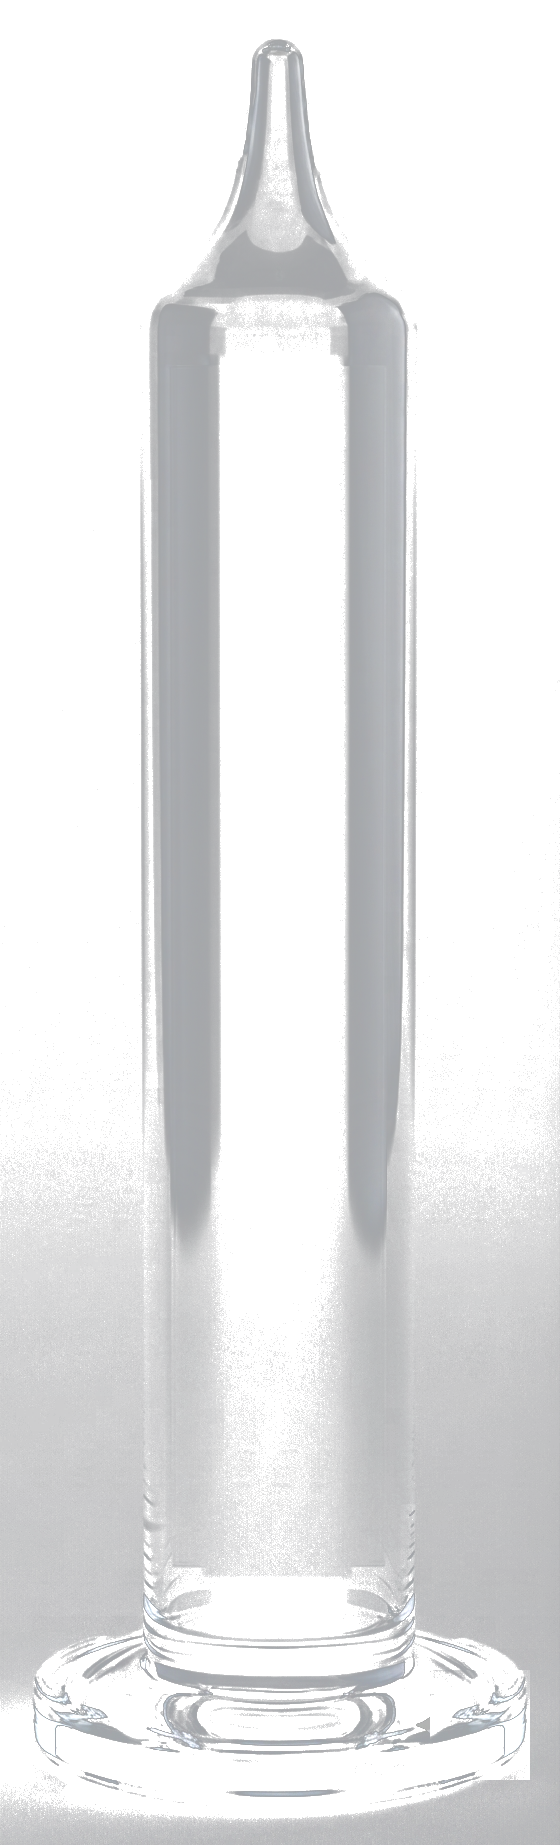
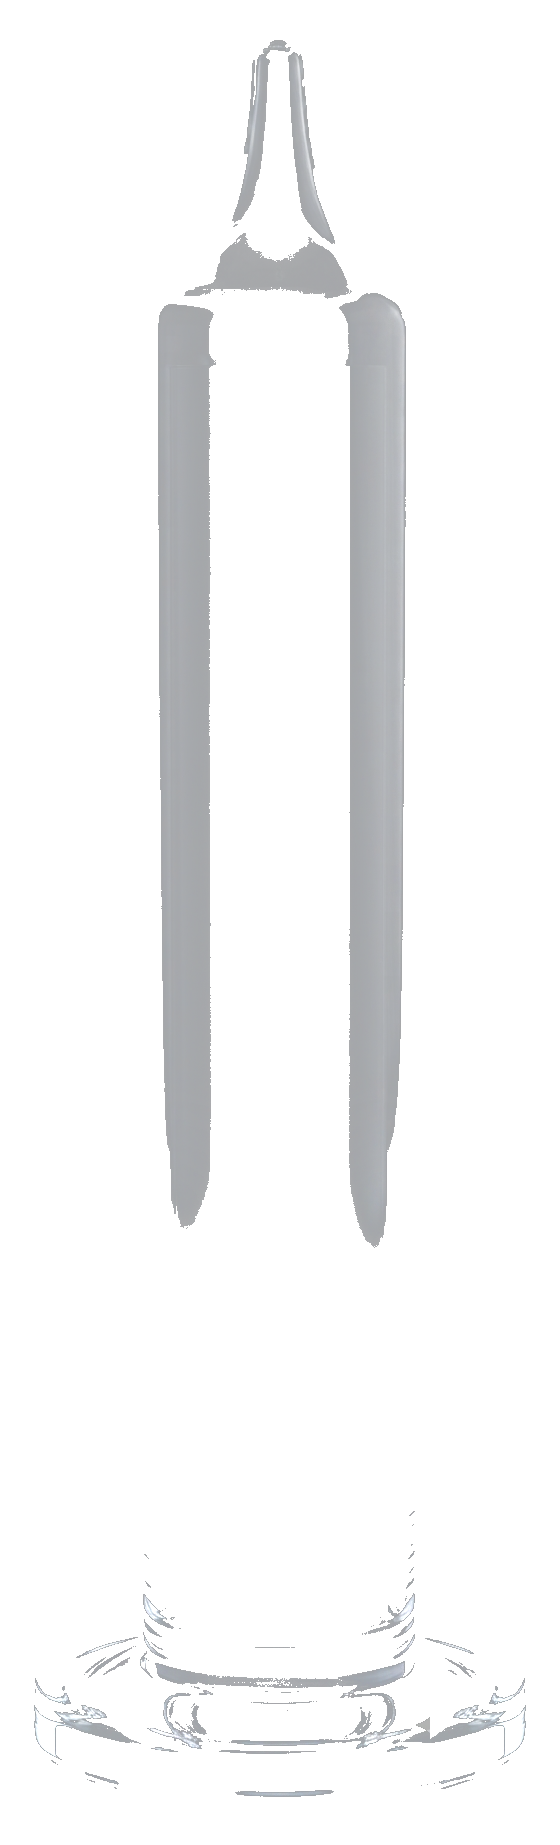
Galileo: three instruments instead of one, so it can read past its own range
A Galileo thermometer can only read inside the range its floats were made for —
past either end every float sinks, or every float rises, and there is nothing to
read. One instrument tagged 30-85F had nothing to say about a Dallas afternoon.

Three of them now stand together, each made for a different stretch: 12-51F,
54-87F, 90-111F. Between them that is 12F to 111F, at a 3F step where the single
one managed 5F — better resolution AND double the coverage, because none of them
is paying for degrees it never sees. Nothing adapts and nothing is fetched to do
it; the tags are etched numbers, the same for every visitor, which is exactly
what three instruments on a shelf would be.

The two that are out of range are deliberately not dimmed or marked. Every float
up means "colder than anything I can read", every float down means "hotter", and
the three together bracket the temperature even when only one gives a number.
Working that out is the visitor's to do.

Vessels: the owner supplied photographs of two more, a teardrop and a capsule.
Cut out against the existing convention — interior clear so the floats show
through, glass and rim semi-opaque where they catch light, which brightness maps
onto directly since the photographs are lit against black. The two flanking ones
stand smaller than the tube; at equal heights the teardrop in particular looked
enormous, being a wide shape.

vessel-dark.png also carried a faint dark wash over its whole rectangle, left
[…]

Changed region(s): [[0.0, 0.0, 1.0, 1.0], [0.6982, 0.1545, 0.7286, 0.1854]]

diff --git a/galileo/index.html b/galileo/index.html
@@ -51,16 +51,30 @@
     padding:2vh 4vw;
     gap:1.2vh;
   }
-  #instrument-wrap{
-    width:min(20vw, 190px);
-    height:min(78vh, 720px);
+  /* Three instruments stand in a row, sized by HEIGHT with width left to follow,
+     so they read as a set on a shelf rather than three things squeezed into equal
+     boxes. Each vessel is a different shape and keeps its own proportions. */
+  #instruments{
+    display:flex;
+    align-items:flex-end;
+    justify-content:center;
+    gap:min(3vw, 30px);
+    /* Sized by height, with width following from each vessel's own proportions —
+       but the three together are 1.09 times as wide as they are tall, so on a
+       narrow screen height has to be capped by the width available or the set
+       runs off the sides (the body does not scroll, so it would simply be cut
+       off rather than reachable). The 1.15 leaves a little slack over that 1.09. */
+    height:min(74vh, 690px, calc((96vw - 60px) / 0.98));
+  }
+  .instrument{
+    height:100%;
     filter:drop-shadow(0 24px 46px rgba(0,0,0,.55));
   }
+  .instrument svg{ height:100%; width:auto; overflow:visible; display:block; }
   /* the flag and its note/search live in one tight cluster so a shown note doesn't add
      a whole extra row of #stage's gap on top of its own height — keeps the bottom of the
      control stack from getting pushed past the fold on shorter screens */
   #loc-cluster{ display:flex; flex-direction:column; align-items:center; gap:2px; }
-  #instrument-wrap svg{ width:100%; height:100%; overflow:visible; }
 
   .bulb-group{ transition: transform 1.4s cubic-bezier(.34,.1,.2,1); }
   .tag-chip{
@@ -129,8 +143,14 @@
     font-family:'Cormorant Garamond', serif; min-height:1.2em;
   }
 
+  /* On a phone all three still fit across, just small — the tags were already
+     too small to read at rest there and have always been tap-to-enlarge. What
+     changes is how big that enlargement gets: see HOVER_SCALE below, which goes
+     up substantially on a narrow screen so a tapped float is properly legible
+     rather than merely bigger. */
   @media (orientation:portrait){
-    #instrument-wrap{ width:min(52vw, 230px); height:min(66vh, 560px); }
+    #stage{ padding:2vh 2vw; }
+    #instruments{ gap:8px; height:min(62vh, 540px, calc((96vw - 30px) / 0.98)); }
   }
 </style>
 </head>
@@ -141,8 +161,8 @@
 </style>
 <a id="backlink" href="../index.html">← sagne</a>
 <div id="stage">
-  <div id="instrument-wrap">
-    <svg id="vessel-svg" viewBox="595 20 220 725" preserveAspectRatio="xMidYMid meet">
+  <!-- the defs live once, off-screen; each instrument's svg refers to them by id -->
+  <svg id="defs-holder" width="0" height="0" aria-hidden="true" style="position:absolute">
       <defs>
         <linearGradient id="liquidFill" x1="0" y1="0" x2="0" y2="1">
           <stop offset="0%" stop-color="#d2d6d9"/>
@@ -163,16 +183,10 @@
           <stop offset="1" stop-color="#fff" stop-opacity="0"/>
         </linearGradient>
         <filter id="hlBlur" x="-200%" y="-40%" width="500%" height="180%"><feGaussianBlur stdDeviation="0.7"/></filter>
-        <mask id="hlMask"><rect x="649" y="500" width="13" height="138" fill="url(#hlY)"/></mask>
+        <mask id="hlMask"><rect x="54" y="480" width="13" height="138" fill="url(#hlY)"/></mask>
       </defs>
-      <g id="bulb-layer"></g>
-      <g id="tag-layer"></g>
-      <image href="vessel-dark.png" x="595" y="20" width="220" height="725" style="pointer-events:none;"/>
-      <rect x="649" y="500" width="13" height="138" fill="url(#hlX)" mask="url(#hlMask)" filter="url(#hlBlur)" style="pointer-events:none;"/>
-      <g id="hit-layer"></g>
-      <g id="hover-layer"></g>
-    </svg>
-  </div>
+  </svg>
+  <div id="instruments"></div>
 
   <div id="unit-toggle">
     <button id="btn-c" aria-label="Celsius">C</button>
@@ -193,26 +207,56 @@
 (function(){
   "use strict";
 
-  // twelve bulbs at a clean 5°F step (was nine at 7.5°) — finer resolution,
-  // same 30-85°F spread the thermometer has always covered
-  const BULBS_F = [30, 35, 40, 45, 50, 55, 60, 65, 70, 75, 80, 85];
+  // ---- the three instruments ----
+  // A Galileo thermometer can only read inside the range its floats were made
+  // for: outside it every float sinks, or every float rises. One instrument
+  // tagged 30-85F had nothing whatever to say about a Dallas afternoon. Three of
+  // them, each made for a different stretch, cover 12F to 111F between them — and
+  // at a FINER step than the single one managed, 3F against 5F, because none of
+  // them is paying for degrees it never sees.
+  //
+  // Nothing here adapts and nothing is fetched. The tags are etched numbers, the
+  // same for every visitor, exactly as on the real objects; three instruments is
+  // simply what you would own if you wanted to read that much range.
+  //
+  // The two that are off-scale are not decoration, and they are deliberately not
+  // dimmed or hidden. Every float up means "colder than anything I can read";
+  // every float down means "hotter". Read together the three bracket the
+  // temperature even when only one of them is giving a number.
+  const STEP_F = 3;
+
+  // Interior geometry, measured off each cut-out. halfWidth is the room a float
+  // has either side of centre, sampled down the column — the teardrop is 105
+  // units across its belly and closes to 74 at the neck, so a float riding high
+  // in it genuinely has less room to drift than one sitting in the middle.
+  // (The last sample or two on the capsule were smoothed: the thick glass of the
+  // base confuses the trace where it meets the foot.)
+  const INSTRUMENTS = [
+    { key:'capsule', file:'vessel-capsule.png', vw:202, vh:612,
+      cx:101.4, top:75, bot:584, from:12, count:14, scale:0.80,
+      halfWidth:[37.2,52.8,60.4,62.8,68,69.6,70,70.4,72.8,70,67.2,66,66.8,69.6,69.6,72.8,72.4,72.8,72.4,72.4,72,72,72,72,71.2,58,39.6,47.2] },
+    { key:'tube', file:'vessel-dark.png', vw:220, vh:725,
+      cx:109, top:143, bot:612, from:54, count:12, scale:1.00,
+      // straight-sided, so one figure serves the whole column. Traced at a lower
+      // threshold than the others: this photograph's walls are much fainter.
+      halfWidth:[48,48,48,48,48,48,48,48,48,48,48,48,48,48,48,48,48,48,48,48,48,48,48,48,48,48,48,48],
+      highlight:{ x:54, y:480, w:13, h:138 } },
+    { key:'teardrop', file:'vessel-teardrop.png', vw:283, vh:615,
+      cx:139.7, top:89, bot:586, from:90, count:8, scale:0.72,
+      halfWidth:[22.4,25.6,28.4,32,36,41.6,47.6,54.4,65.6,72,78,83.6,88.4,93.2,97.6,100.8,103.2,104.8,105.2,104.8,102.8,98.4,92.4,83.6,70.4,48.8,42,52.4] },
+  ];
+
   const FLOAT_IMAGES = ['blue','aqua','green','yellow','gold','orange','red','pink','palepink','purple','lavender','silver'];
-  const X_JITTER = [-22, 18, -10, 24, -19, -27, 11, -16, 21, 26, -13, -5];
+  // a float reads the same size on screen in every vessel, so its size in a
+  // vessel's own units scales with how many units tall that vessel is
+  const FLOAT_W_AT_725 = 48;
+  const FLOAT_RATIO = 660/370;
+  const TAG_FONT_FRAC = 0.16;
 
-  // display size for each float sprite (native crop is 340x435)
-  // sized so a bulb reads as roughly a real pea against the tube (tube interior ~130 units wide)
-  const FLOAT_W = 48;
-  const FLOAT_H = FLOAT_W * (660/370);
-  const TAG_FONT_SIZE = FLOAT_W * 0.16;
-  const TAG_TEXT_X = 1;
-  // coin's true visual center measured at its widest row (y=95 of 107px sprite),
-  // plus a baseline correction since SVG text y= is the baseline, not the glyph's visual middle
-  const TAG_TEXT_Y = FLOAT_H/2 - FLOAT_H*0.08;
-
-  // tube interior bounds measured from the traced vessel (native SVG coords)
-  const TUBE_CX = 703;
-  const TUBE_Y_TOP = 163;
-  const TUBE_Y_BOTTOM = 632;
+  // How far a float sits from centre. Fixed per position so it never jitters
+  // frame to frame, spread so neighbours lean opposite ways, and scaled at draw
+  // time by whatever room the glass actually has at that height.
+  function leanFor(i){ return Math.sin(i*2.399 + 0.7) * 0.78; }
 
   let unit = 'f';
   let currentTempF = 65;
@@ -220,52 +264,110 @@
   let weatherFetchFailures = 0; // consecutive failed weather fetches (location already known) --
   // separate from a geolocation failure, which has its own note text and its own counter-less path
 
-  const bulbLayer = document.getElementById('bulb-layer');
-  const tagLayer = document.getElementById('tag-layer');
-  const hitLayer = document.getElementById('hit-layer');
-  const hoverLayer = document.getElementById('hover-layer');
+  const instrumentsWrap = document.getElementById('instruments');
   const btnC = document.getElementById('btn-c');
   const btnF = document.getElementById('btn-f');
 
-  const HOVER_SCALE = 2.4;
+  // A tapped float is shown enlarged. On a phone all three instruments are small,
+  // so the tags are unreadable at rest — they always were — and this enlargement
+  // is how you read one. It therefore has to be much bigger on a narrow screen,
+  // not the same 2.4x that suits a desktop.
+  function hoverScale(){ return window.matchMedia('(orientation:portrait)').matches ? 5.2 : 2.6; }
 
   function fToC(f){ return (f-32)*5/9; }
 
-  const bulbEls = BULBS_F.map((t,i)=>{
-    const g = document.createElementNS('http://www.w3.org/2000/svg','g');
-    g.setAttribute('class','bulb-group');
-    g.innerHTML = `<image href="floats/${FLOAT_IMAGES[i]}.png" x="${-FLOAT_W/2}" y="${-FLOAT_H/2}" width="${FLOAT_W}" height="${FLOAT_H}"/>`;
-    bulbLayer.appendChild(g);
+  const SVGNS = 'http://www.w3.org/2000/svg';
+  const bulbEls = [];
 
-    const tg = document.createElementNS('http://www.w3.org/2000/svg','g');
-    tg.setAttribute('class','tag-group');
-    tg.innerHTML = `<text x="${TAG_TEXT_X}" y="${TAG_TEXT_Y}" text-anchor="middle" font-size="${TAG_FONT_SIZE}" class="tag-chip" fill="#000000">${Math.round(t)}°</text>`;
-    tagLayer.appendChild(tg);
+  INSTRUMENTS.forEach((inst, instIdx) => {
+    const box = document.createElement('div');
+    box.className = 'instrument';
+    // The three are not the same size. Standing them at equal heights made the
+    // teardrop in particular look wrong — it is a wide shape, so matching the
+    // tube's height made it enormous beside it. A smaller instrument either side
+    // reads as what it is: a main one with two lesser ones kept for the ranges it
+    // cannot reach. They share a baseline, as things standing on a shelf do.
+    box.style.height = (inst.scale*100) + '%';
+    const svg = document.createElementNS(SVGNS,'svg');
+    svg.setAttribute('viewBox', `0 0 ${inst.vw} ${inst.vh}`);
+    svg.setAttribute('preserveAspectRatio','xMidYMax meet');
+    const bulbLayer = document.createElementNS(SVGNS,'g');
+    const tagLayer  = document.createElementNS(SVGNS,'g');
+    svg.appendChild(bulbLayer); svg.appendChild(tagLayer);
 
-    // zoomed-in clone shown on hover, rendered above the glass so it's never clipped
-    const hg = document.createElementNS('http://www.w3.org/2000/svg','g');
-    hg.setAttribute('class','hover-clone');
-    hg.innerHTML = `
-      <image href="floats/${FLOAT_IMAGES[i]}.png" x="${-FLOAT_W/2*HOVER_SCALE}" y="${-FLOAT_H/2*HOVER_SCALE}" width="${FLOAT_W*HOVER_SCALE}" height="${FLOAT_H*HOVER_SCALE}"/>
-      <text x="${TAG_TEXT_X*HOVER_SCALE}" y="${TAG_TEXT_Y*HOVER_SCALE}" text-anchor="middle" font-size="${TAG_FONT_SIZE*HOVER_SCALE}" class="tag-chip" fill="#000000">${Math.round(t)}°</text>
-    `;
-    hoverLayer.appendChild(hg);
+    const vessel = document.createElementNS(SVGNS,'image');
+    vessel.setAttribute('href', inst.file);
+    vessel.setAttribute('x',0); vessel.setAttribute('y',0);
+    vessel.setAttribute('width', inst.vw); vessel.setAttribute('height', inst.vh);
+    vessel.style.pointerEvents = 'none';
+    svg.appendChild(vessel);
 
-    // invisible larger hit target, easier to hover/tap than the tiny coin itself
-    const hit = document.createElementNS('http://www.w3.org/2000/svg','circle');
-    hit.setAttribute('class','hit-circle');
-    hit.setAttribute('r', FLOAT_W*0.7);
-    hit.setAttribute('fill', 'transparent');
-    hitLayer.appendChild(hit);
+    if(inst.highlight){
+      const h = inst.highlight;
+      const r = document.createElementNS(SVGNS,'rect');
+      r.setAttribute('x',h.x); r.setAttribute('y',h.y);
+      r.setAttribute('width',h.w); r.setAttribute('height',h.h);
+      r.setAttribute('fill','url(#hlX)'); r.setAttribute('mask','url(#hlMask)');
+      r.setAttribute('filter','url(#hlBlur)');
+      r.style.pointerEvents = 'none';
+      svg.appendChild(r);
+    }
 
-    function showZoom(){ hg.classList.add('show'); }
-    function hideZoom(){ hg.classList.remove('show'); }
-    hit.addEventListener('pointerenter', showZoom);
-    hit.addEventListener('pointerleave', hideZoom);
-    hit.addEventListener('touchstart', (e)=>{ e.preventDefault(); showZoom(); }, {passive:false});
-    hit.addEventListener('touchend', hideZoom);
+    const hitLayer   = document.createElementNS(SVGNS,'g');
+    const hoverLayer = document.createElementNS(SVGNS,'g');
+    svg.appendChild(hitLayer); svg.appendChild(hoverLayer);
+    box.appendChild(svg);
+    instrumentsWrap.appendChild(box);
 
-    return { el: g, tagEl: tg, hoverEl: hg, hitEl: hit, hoverText: hg.querySelector('text'), temp: t, x: X_JITTER[i] };
+    const fw = FLOAT_W_AT_725 * (inst.vh/725);
+    const fh = fw * FLOAT_RATIO;
+    inst.fw = fw; inst.fh = fh;
+
+    for(let i=0;i<inst.count;i++){
+      const t = inst.from + i*STEP_F;
+      const img = FLOAT_IMAGES[(i + instIdx*5) % FLOAT_IMAGES.length];
+      const tagY = fh/2 - fh*0.08;
+      const fs = fw*TAG_FONT_FRAC;
+
+      const g = document.createElementNS(SVGNS,'g');
+      g.setAttribute('class','bulb-group');
+      g.innerHTML = `<image href="floats/${img}.png" x="${-fw/2}" y="${-fh/2}" width="${fw}" height="${fh}"/>`;
+      bulbLayer.appendChild(g);
+
+      const tg = document.createElementNS(SVGNS,'g');
+      tg.setAttribute('class','tag-group');
+      tg.innerHTML = `<text x="1" y="${tagY}" text-anchor="middle" font-size="${fs}" class="tag-chip" fill="#000000">${Math.round(t)}°</text>`;
+      tagLayer.appendChild(tg);
+
+      // zoomed clone shown on hover/tap, above the glass so it is never clipped.
+      // Built at 1x and scaled by an attribute so the amount can change with the
+      // screen without rebuilding anything.
+      const hg = document.createElementNS(SVGNS,'g');
+      hg.setAttribute('class','hover-clone');
+      const inner = document.createElementNS(SVGNS,'g');
+      inner.innerHTML = `
+        <image href="floats/${img}.png" x="${-fw/2}" y="${-fh/2}" width="${fw}" height="${fh}"/>
+        <text x="1" y="${tagY}" text-anchor="middle" font-size="${fs}" class="tag-chip" fill="#000000">${Math.round(t)}°</text>`;
+      hg.appendChild(inner);
+      hoverLayer.appendChild(hg);
+
+      const hit = document.createElementNS(SVGNS,'circle');
+      hit.setAttribute('class','hit-circle');
+      hit.setAttribute('r', fw*0.7);
+      hit.setAttribute('fill','transparent');
+      hitLayer.appendChild(hit);
+
+      const show = ()=>{ hg.classList.add('show'); };
+      const hide = ()=>{ hg.classList.remove('show'); };
+      hit.addEventListener('pointerenter', show);
+      hit.addEventListener('pointerleave', hide);
+      hit.addEventListener('touchstart', (e)=>{ e.preventDefault(); show(); }, {passive:false});
+      hit.addEventListener('touchend', hide);
+
+      bulbEls.push({ inst, el:g, tagEl:tg, hoverEl:hg, hoverInner:inner,
+                     hitEl:hit, hoverText:inner.querySelector('text'),
+                     temp:t, lean:leanFor(i) });
+    }
   });
 
   function tagLabel(tempF){
@@ -281,23 +383,60 @@
     });
   }
 
-  function updatePositions(){
-    const n = BULBS_F.length;
-    bulbEls.forEach((b,i)=>{
-      const buoyancy = b.temp - currentTempF;
-      const k = 0.11;
-      let frac = 0.5 - 0.5*Math.tanh(buoyancy*k);
-      const stagger = (i - (n-1)/2) * 14;
-      let y = TUBE_Y_TOP + frac*(TUBE_Y_BOTTOM-TUBE_Y_TOP) + stagger;
-      y = Math.max(TUBE_Y_TOP+8, Math.min(TUBE_Y_BOTTOM-8, y));
-      const x = TUBE_CX + b.x;
-      b.el.setAttribute('transform', `translate(${x},${y})`);
-      b.tagEl.setAttribute('transform', `translate(${x},${y})`);
-      b.hoverEl.setAttribute('transform', `translate(${x},${y})`);
-      b.hitEl.setAttribute('cx', x);
-      b.hitEl.setAttribute('cy', y);
-    });
+  // room either side of centre at a given height, read off the vessel's profile
+  function roomAt(inst, y){
+    const p = inst.halfWidth;
+    const f = Math.max(0, Math.min(1, (y - inst.top)/(inst.bot - inst.top)));
+    const k = f*(p.length-1), i = Math.floor(k), frac = k - i;
+    const hw = i >= p.length-1 ? p[p.length-1] : p[i] + (p[i+1]-p[i])*frac;
+    return Math.max(0, hw - inst.fw*0.5);
   }
+
+  function updatePositions(){
+    for(const inst of INSTRUMENTS){
+      const list = bulbEls.filter(b=>b.inst===inst);
+      const span = inst.bot - inst.top;
+
+      // where each float wants to be, from how far the temperature is from its tag
+      for(const b of list){
+        const k = 0.11;
+        b.want = inst.top + (0.5 - 0.5*Math.tanh((b.temp - currentTempF)*k)) * span;
+      }
+
+      // A float's tag is the temperature at which it is neutrally buoyant, so a
+      // higher tag means a LESS dense sphere — and in a fluid at rest, lighter
+      // always sits above heavier, in the floating cluster and the sunken pile
+      // alike. Sorting by tag and then letting them rest on one another gets that
+      // for free. The old code staggered them by index and clamped to the ends,
+      // which left the sunk pile jumbled: at 62F it read 60, 55, 30, 35, 40, 50,
+      // 45 from the top down. The reading itself was right, but the pile was not
+      // an arrangement any liquid would produce.
+      const order = list.slice().sort((a,b)=> b.temp - a.temp);   // lightest first
+      const gap = inst.fw*0.52;                                   // resting against each other
+      const hi = inst.top, lo = inst.bot;
+
+      let prev = -Infinity;
+      for(const b of order){ b.y = Math.max(b.want, prev + gap); prev = b.y; }
+      // if the stack has run out of the bottom of the glass, settle it back up
+      let next = lo;
+      for(let i=order.length-1;i>=0;i--){ order[i].y = Math.min(order[i].y, next); next = order[i].y - gap; }
+      prev = hi;
+      for(let i=0;i<order.length;i++){ order[i].y = Math.max(order[i].y, prev); prev = order[i].y + gap; }
+
+      const hs = hoverScale();
+      for(const b of list){
+        const x = inst.cx + b.lean * roomAt(inst, b.y);
+        const tr = `translate(${x},${b.y})`;
+        b.el.setAttribute('transform', tr);
+        b.tagEl.setAttribute('transform', tr);
+        b.hoverEl.setAttribute('transform', tr);
+        b.hoverInner.setAttribute('transform', `scale(${hs})`);
+        b.hitEl.setAttribute('cx', x);
+        b.hitEl.setAttribute('cy', b.y);
+      }
+    }
+  }
+  window.addEventListener('resize', updatePositions);
 
   function setUnit(u){
     unit = u;

diff --git a/index.html b/index.html
@@ -190,7 +190,7 @@
   <div class="anchor pos-title">
     <h1><button class="anchor-q" type="button" aria-expanded="false" aria-controls="anchor-copy-title" aria-label="what is this?">sagne</button></h1>
     <p class="pronounce" lang="en-fonipa">/seɪn/</p>
-    <p class="anchor-copy" id="anchor-copy-title">tools and toys for twiddling. no scores, no goals, no timers (except the tools which are timers), no links, no likes, no ads, no in-game purchases. nothing exciting, but hopefully something enjoyable.</p>
+    <p class="anchor-copy" id="anchor-copy-title">tools and toys for twiddling. no scores, no goals, no timers (except the tools which are timers), no links (except for location accuracy), no likes, no ads, no in-game purchases. nothing exciting, but hopefully something enjoyable.</p>
   </div>
 
   <div id="cards" class="dice6">
